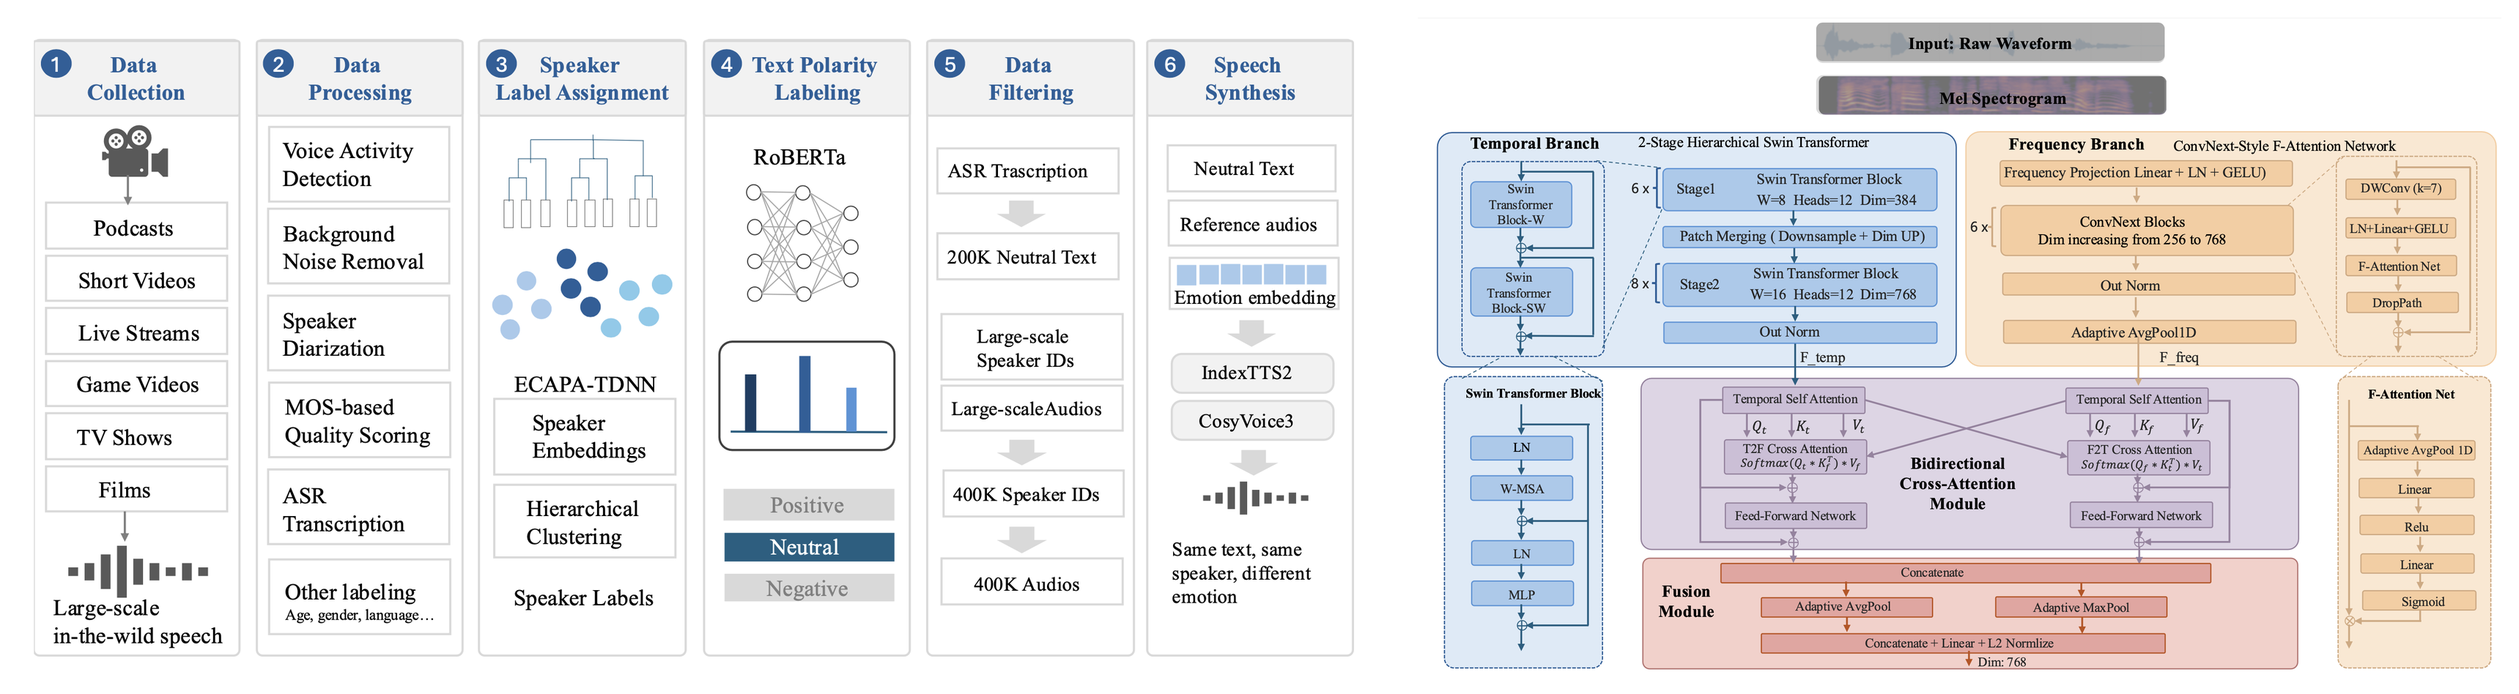
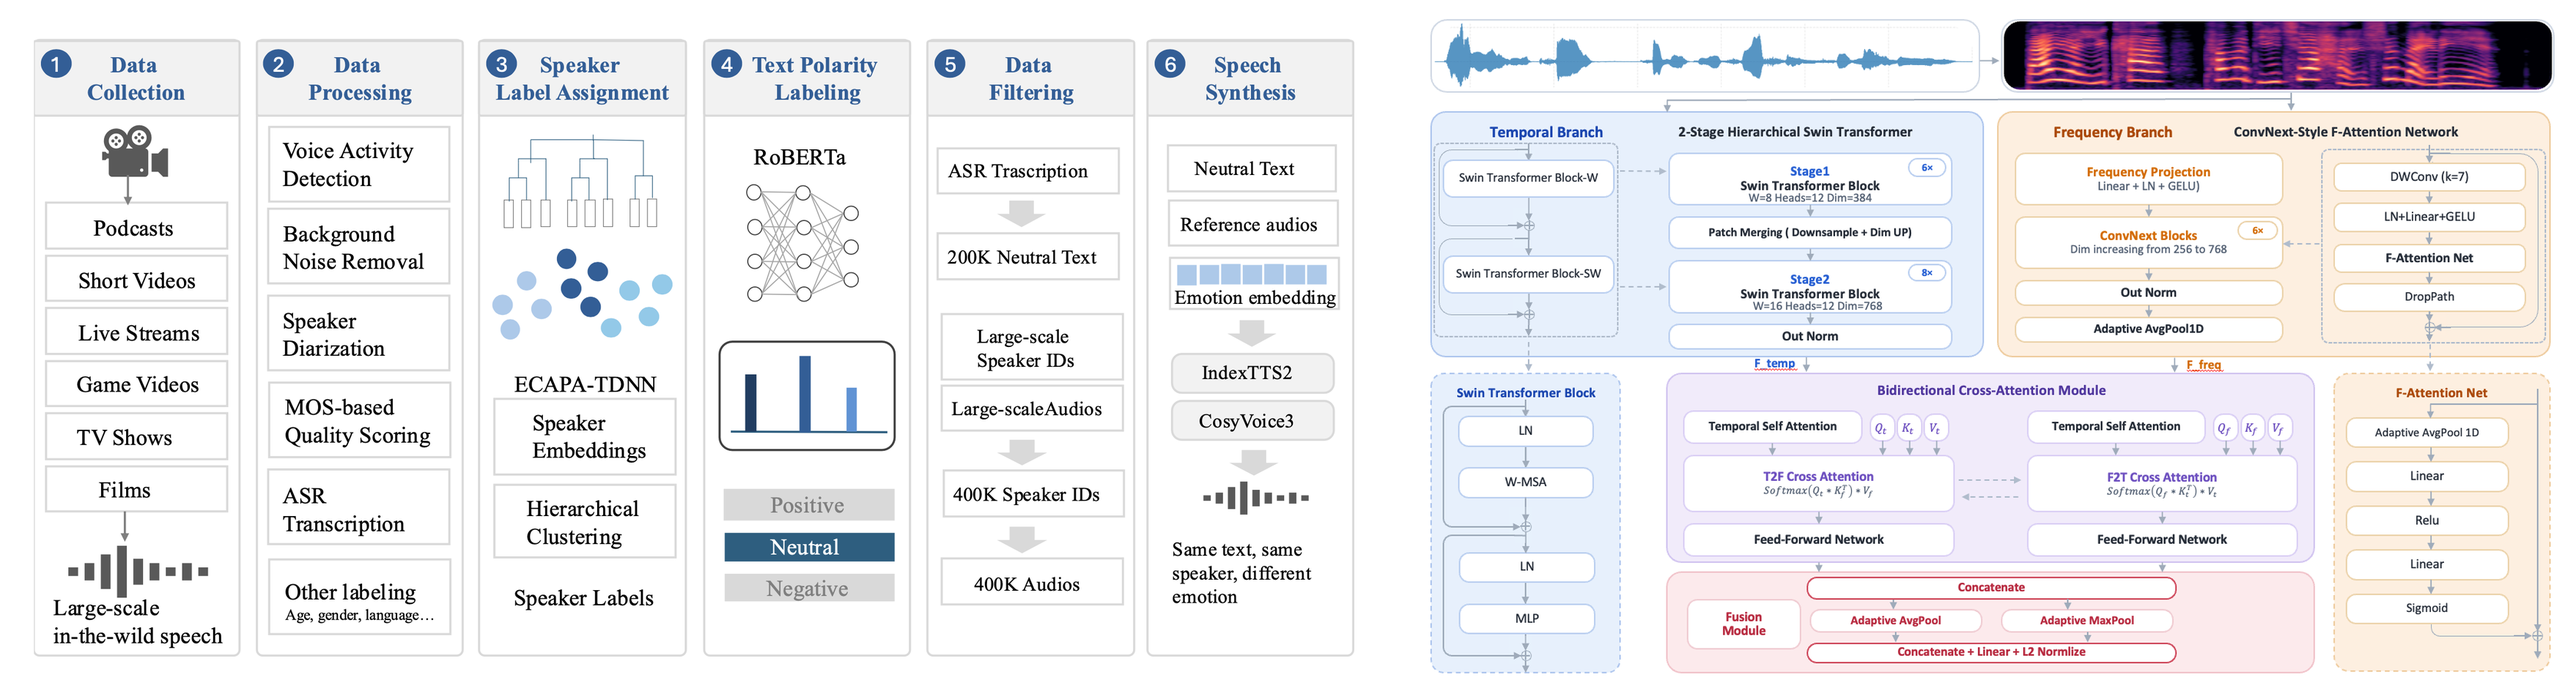
Modify the README file

diff --git a/README.md b/README.md
@@ -317,7 +317,7 @@ If you find RecdSER or SynthEmoVoice useful in your research, please consider ci
 ```bibtex
 @inproceedings{recdser,
   title     = {RecdSER: Representation Learning via Causal Deconfounding for Speech Emotion Recognition},
-  author    = {Tan Jingang and zixun Sun and Shuang Zhao and Yating Zhang},
+  author    = {Tan Jingang and Zixun Sun and Shuang Zhao and Yating Zhang},
   booktitle = {Proceedings},
   year      = {2026}
 }
@@ -325,4 +325,4 @@ If you find RecdSER or SynthEmoVoice useful in your research, please consider ci
 
 ## License
 
-Please refer to the top-level `LICENSE` of this repository.
+Released under the MIT license.
